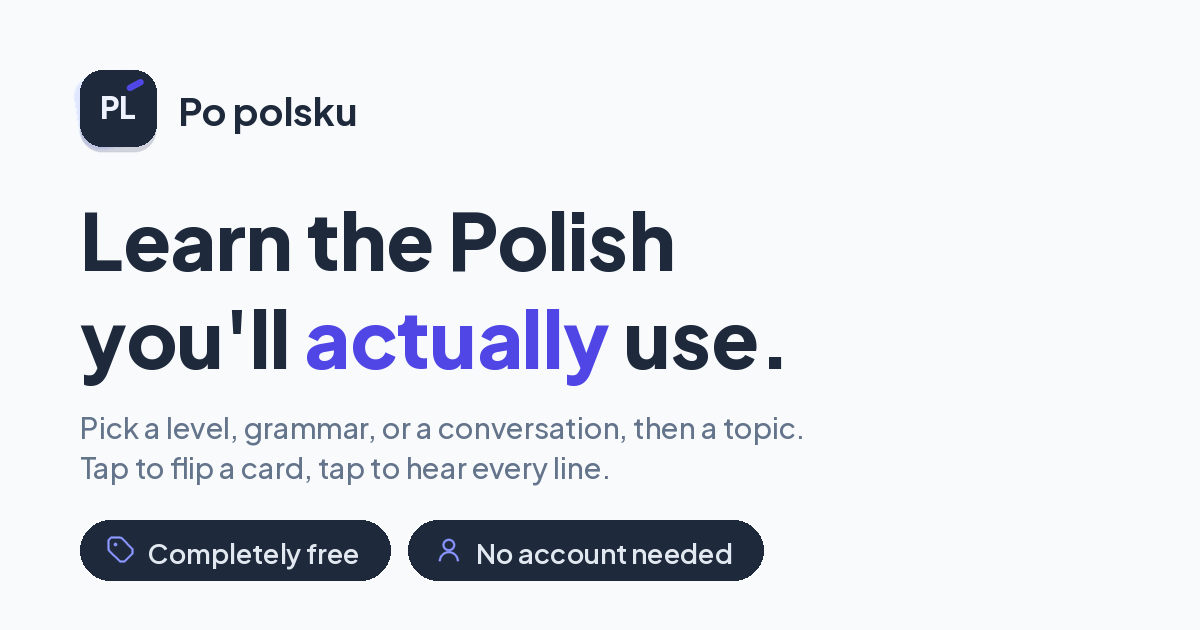
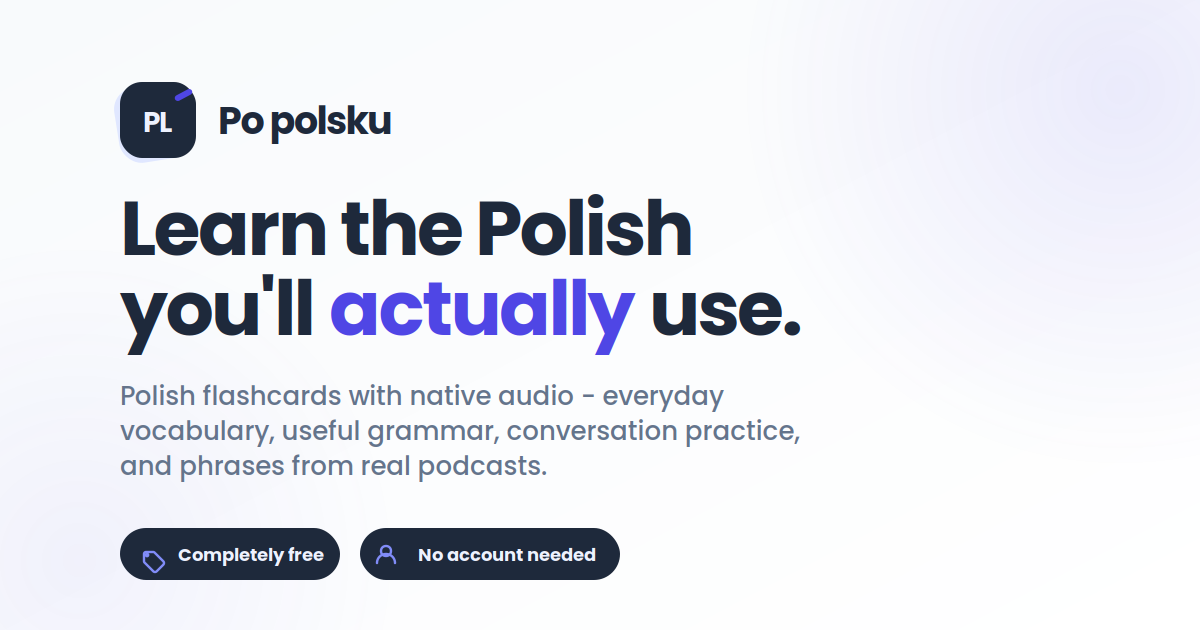
main page and visual updates

Changed region(s): [[0.0617, 0.3016, 0.6783, 0.7841], [0.0617, 0.8143, 0.6475, 0.9349], [0.0617, 0.0905, 0.3392, 0.2714]]

diff --git a/index.html b/index.html
@@ -5,34 +5,37 @@
 <meta name="viewport" content="width=device-width, initial-scale=1.0, viewport-fit=cover">
 <meta name="theme-color" content="#f8fafc">
 <title>Po polsku - learn the Polish you'll actually use</title>
-<meta name="description" content="Free Polish flashcards with audio for A1-B1: real everyday vocabulary, all seven grammar cases, and branching conversations. No account, no ads, works offline.">
+<meta name="description" content="Polish flashcards with native audio - everyday vocabulary, useful grammar, conversation practice, and phrases from real podcasts.">
 <link rel="canonical" href="https://popolsku.app/">
 <link rel="icon" type="image/svg+xml" href="favicon.svg">
 <link rel="apple-touch-icon" href="apple-touch-icon.png">
 <link rel="manifest" href="manifest.json">
 <meta name="apple-mobile-web-app-capable" content="yes">
+<meta name="mobile-web-app-capable" content="yes">
 <meta name="apple-mobile-web-app-status-bar-style" content="default">
 <meta name="apple-mobile-web-app-title" content="Po polsku">
 <meta property="og:type" content="website">
+<meta property="og:site_name" content="Po polsku">
+<meta property="og:locale" content="en_US">
 <meta property="og:url" content="https://popolsku.app/">
 <meta property="og:title" content="Po polsku - learn the Polish you'll actually use">
-<meta property="og:description" content="Free Polish flashcards with audio for A1-B1: real everyday vocabulary, all seven grammar cases, and branching conversations. No account, no ads, works offline.">
-<meta property="og:image" content="https://popolsku.app/og-image.png">
+<meta property="og:description" content="Polish flashcards with native audio - everyday vocabulary, useful grammar, conversation practice, and phrases from real podcasts.">
+<meta property="og:image" content="https://popolsku.app/og-image.png?v=2">
 <meta property="og:image:width" content="1200">
 <meta property="og:image:height" content="630">
 <meta property="og:image:type" content="image/png">
 <meta property="og:image:alt" content="Po polsku - learn the Polish you'll actually use">
 <meta name="twitter:card" content="summary_large_image">
 <meta name="twitter:title" content="Po polsku - learn the Polish you'll actually use">
-<meta name="twitter:description" content="Free Polish flashcards with audio for A1-B1. No account, no ads, works offline.">
-<meta name="twitter:image" content="https://popolsku.app/og-image.png">
+<meta name="twitter:description" content="Polish flashcards with native audio - everyday vocabulary, useful grammar, conversation practice, and phrases from real podcasts.">
+<meta name="twitter:image" content="https://popolsku.app/og-image.png?v=2">
 <meta name="twitter:image:alt" content="Po polsku - learn the Polish you'll actually use">
 
 <!-- Content Security Policy: closes off common script-injection and data-leak vectors.
      Everything the app needs is same-origin; no third-party scripts, images, or fetches are permitted.
      'unsafe-inline' remains on script-src because the app uses a large inline <script> block;
      stripping it would require a full script-externalization refactor, not covered here. -->
-<meta http-equiv="Content-Security-Policy" content="default-src 'self'; script-src 'self' 'unsafe-inline'; style-src 'self' 'unsafe-inline'; font-src 'self'; img-src 'self'; connect-src 'self'; media-src 'self'; frame-ancestors 'none'; base-uri 'self'; form-action 'self'">
+<meta http-equiv="Content-Security-Policy" content="default-src 'self'; script-src 'self' 'unsafe-inline'; style-src 'self' 'unsafe-inline'; font-src 'self'; img-src 'self'; connect-src 'self'; media-src 'self'; base-uri 'self'; form-action 'self'">
 <meta name="referrer" content="strict-origin-when-cross-origin">
 
 <style>
@@ -59,6 +62,9 @@
     --sage-hover:#3730a3;
     --coral:#c97c5d;         /* secondary warm accent - "still learning" / wrong */
     --coral-hover:#b56a4c;
+    /* correctness feedback (grammar drills): green = right, red = wrong position */
+    --ok-bg:#dcfce7;    --ok-border:#22c55e;   --ok-text:#15803d;
+    --bad-bg:#fee2e2;   --bad-border:#ef4444;  --bad-text:#b91c1c;
     --muted:#64748b;
     --border:#e6ebf1;
     --shadow:0 1px 2px rgba(30,27,75,.04), 0 12px 28px rgba(30,27,75,.06);
@@ -370,18 +376,20 @@
   .opt:hover:not(:disabled){border-color:var(--emerald);transform:translateY(-1px)}
   .opt:disabled{cursor:default}
   .opt:focus-visible{outline:2px solid var(--emerald);outline-offset:2px}
-  .opt.correct{background:var(--mint-bg);border-color:var(--emerald);color:var(--sage-hover)}
+  .opt.correct{background:var(--ok-bg);border-color:var(--ok-border);color:var(--ok-text)}
   .opt.wrong{background:#fbeee8;border-color:var(--coral);color:var(--coral-hover)}
   .build-row{min-height:56px;border:1.5px dashed #c7d3db;border-radius:14px;background:#fbfdfe;margin-top:20px;padding:10px;display:flex;flex-wrap:wrap;gap:8px;align-items:center}
   .build-row.empty::before{content:"Tap words below to build the sentence";color:#aebbc4;font-size:13px;font-weight:500;padding:4px 6px}
   .build-row.shake{animation:shake .32s}
   @keyframes shake{0%,100%{transform:translateX(0)}25%{transform:translateX(-5px)}75%{transform:translateX(5px)}}
-  .build-row.locked .wchip{background:var(--mint-bg);border-color:var(--emerald);color:var(--sage-hover);cursor:default}
+  .build-row.locked .wchip{background:var(--ok-bg);border-color:var(--ok-border);color:var(--ok-text);cursor:default}
   .build-pool{display:flex;flex-wrap:wrap;gap:8px;margin-top:16px}
   .wchip{border:1.5px solid var(--border);background:#fff;color:var(--forest);border-radius:11px;padding:9px 14px;font-size:15px;font-weight:700;cursor:pointer;transition:.13s;font-family:inherit}
   .wchip:hover{border-color:var(--emerald);transform:translateY(-1px)}
   .wchip:focus-visible{outline:2px solid var(--emerald);outline-offset:2px}
-  .wchip.in-row{background:var(--mint-bg);border-color:#bfe6d5;color:var(--sage-hover)}
+  .wchip.in-row{background:var(--mint-bg);border-color:#c7d2fe;color:var(--sage-hover)}
+  .wchip.in-row.ok{background:var(--ok-bg);border-color:var(--ok-border);color:var(--ok-text)}
+  .wchip.bad{background:var(--bad-bg);border-color:var(--bad-border);color:var(--bad-text)}
   .fb-box{margin-top:18px;display:none}
   .fb-box.show{display:block;animation:fade .3s ease}
   .fb-good{background:var(--mint-bg);border-radius:14px;padding:13px 14px;display:flex;align-items:flex-start;gap:11px}
@@ -488,7 +496,7 @@
 
     <div class="hero">
       <h1>Learn the Polish<br>you'll <em>actually</em> use.</h1>
-      <p class="hero-sub">Pick a level, grammar, or a conversation, then a topic. Tap to flip a card, tap to hear every line.</p>
+      <p class="hero-sub">Polish flashcards with native audio - everyday vocabulary, useful grammar, conversation practice, and phrases from real podcasts.</p>
       <div class="hero-badges">
         <span class="hero-badge">
           <svg viewBox="0 0 24 24" fill="none" stroke="currentColor" stroke-width="2" stroke-linecap="round" stroke-linejoin="round"><path d="M12.586 2.586A2 2 0 0 0 11.172 2H4a2 2 0 0 0-2 2v7.172a2 2 0 0 0 .586 1.414l8.704 8.704a2.426 2.426 0 0 0 3.42 0l6.58-6.58a2.426 2.426 0 0 0 0-3.42z"/><circle cx="7.5" cy="7.5" r=".5" fill="currentColor"/></svg>
@@ -507,7 +515,7 @@
     <div class="seg-label">Topics</div>
     <div class="search">
       <svg class="search-ic" viewBox="0 0 24 24" fill="none" stroke="currentColor" stroke-width="2.2" stroke-linecap="round" stroke-linejoin="round"><circle cx="11" cy="11" r="8"/><path d="m21 21-4.3-4.3"/></svg>
-      <input id="search" type="search" inputmode="search" autocomplete="off" autocorrect="off" autocapitalize="off" spellcheck="false" placeholder="Search topics - e.g. food, doctor, past tense" aria-label="Search topics across all levels">
+      <input id="search" type="search" inputmode="search" autocomplete="off" autocorrect="off" autocapitalize="off" spellcheck="false" placeholder="Search topics - e.g. food, home" aria-label="Search topics across all levels">
       <button class="search-clear" id="searchClear" type="button" aria-label="Clear search" hidden>&times;</button>
     </div>
     <div class="search-meta" id="searchMeta"></div>
@@ -747,7 +755,7 @@
 
         <div class="about-contact">
           <div class="about-contact-title">Contact</div>
-          <p class="about-p">Learned Polish yourself and have a survival tactic that worked? Found a mistake, or want a topic added? I'd genuinely love to hear it - reach out on <a class="about-link" href="https://www.linkedin.com/in/kakhaber-gordadze/" target="_blank" rel="noopener noreferrer">LinkedIn</a>.</p>
+          <p class="about-p">Learned Polish yourself and have a survival tactic that worked? Found a mistake, or want a topic added? I'd genuinely love to hear it - reach out at <a class="about-link" href="mailto:[email redacted]">[email redacted]</a>.</p>
         </div>
       </div>
     </div>
@@ -816,7 +824,12 @@ function restoreProgress(l,t){
   (rec.still||[]).forEach(pl=>{ if(idx[pl]!==undefined) S.still.add(idx[pl]); });
   (rec.known||[]).forEach(pl=>{ if(idx[pl]!==undefined) S.known.add(idx[pl]); });
 }
-function showScreen(scr){ document.querySelectorAll(".screen").forEach(s=>s.classList.remove("active")); $(scr).classList.add("active"); window.scrollTo(0,0); }
+function showScreen(scr){
+  document.querySelectorAll(".screen").forEach(s=>s.classList.remove("active"));
+  $(scr).classList.add("active");
+  const ft=document.querySelector("footer"); if(ft) ft.hidden = (scr!=="home");   /* About/Privacy + data note live on home only */
+  window.scrollTo(0,0);
+}
 /* history-aware navigation: system back button pops to home instead of closing the app */
 function show(scr){
   if($(scr).classList.contains("active")){ showScreen(scr); return; }   /* re-render same screen, no new entry */
@@ -1306,7 +1319,21 @@ function gRenderTeach(){
   if(t.note)     b+='<div class="b-note">'+t.note+'</div>';
   if(t.examples) b+=t.examples.map(gExampleHTML).join('');
   $("gBackFace").innerHTML=b;
+  requestAnimationFrame(gFitCard);
 }
+/* Grammar teach cards hold variable content (tables, lists, examples). The flip card has a
+   fixed min-height, so tall cards used to crop. Grow the card to fit its tallest face instead.
+   Only affects #gFlip; the vocabulary study card keeps its fixed sizing. */
+function gFitCard(){
+  const flip=$("gFlip"); if(!flip) return;
+  flip.style.height="";                                   /* reset to CSS baseline first */
+  let needed=0;
+  flip.querySelectorAll(".face").forEach(f=>{ needed=Math.max(needed, f.scrollHeight); });
+  if(needed>flip.offsetHeight) flip.style.height=needed+"px";
+}
+window.addEventListener("resize", ()=>{
+  if($("grammar").classList.contains("active") && $("gLearn").style.display!=="none") gFitCard();
+});
 function gStartPractice(){ G.di=0; G.results=[]; gRenderDrill(); gPhaseView("practice"); }
 function gRenderDrill(){
   const c=G.topic.drills[G.di], last=G.di===G.topic.drills.length-1;
@@ -1347,6 +1374,7 @@ function gChooseFeedback(c){
 function gRenderBuild(c){
   G.build.pool=gShuffle(c.answer).map((w,i)=>({w:w,id:i+"-"+w}));
   G.build.row=[];
+  G.build.answer=c.answer;
   $("gDrillCard").innerHTML='<div class="d-type">Build the sentence</div><div class="q-prompt">'+c.promptEn+'</div>'+
     '<div class="q-en">Tap the words in the right order</div>'+
     '<div class="build-row" id="gBuildRow"></div><div class="build-pool" id="gBuildPool"></div>'+
@@ -1357,7 +1385,11 @@ function gRenderBuild(c){
 function gPaintBuild(){
   const row=$("gBuildRow"), pool=$("gBuildPool");
   row.className="build-row"+(G.build.row.length===0?" empty":"");
-  row.innerHTML=G.build.row.map(t=>'<button class="wchip in-row" data-id="'+t.id+'">'+t.w+'</button>').join('');
+  /* hybrid feedback: a word in its correct position greens live; red is only shown on Check */
+  row.innerHTML=G.build.row.map((t,i)=>{
+    const ok = G.build.answer && t.w===G.build.answer[i];
+    return '<button class="wchip in-row'+(ok?" ok":"")+'" data-id="'+t.id+'">'+t.w+'</button>';
+  }).join('');
   pool.innerHTML=G.build.pool.map(t=>'<button class="wchip" data-id="'+t.id+'">'+t.w+'</button>').join('');
   row.querySelectorAll(".wchip").forEach(ch=>ch.addEventListener("click",()=>{
     const id=ch.getAttribute("data-id"); const t=G.build.row.find(x=>x.id===id);
@@ -1382,7 +1414,11 @@ function gCheckBuild(c){
     fb.classList.add("show"); $("gDrillNext").disabled=false;
   } else {
     G.attempted=true; G.results[G.di]=false;
-    const r=$("gBuildRow"); r.classList.add("shake"); setTimeout(()=>r.classList.remove("shake"),340);
+    /* red-flag the words sitting in the wrong slot; correct ones keep their green.
+       These clear automatically on the next tap, since gPaintBuild re-renders the row. */
+    const r=$("gBuildRow");
+    r.querySelectorAll(".wchip").forEach((ch,i)=>{ if(G.build.row[i].w!==c.answer[i]) ch.classList.add("bad"); });
+    r.classList.add("shake"); setTimeout(()=>r.classList.remove("shake"),340);
   }
 }
 function gDrillAdvance(){ if(G.di<G.topic.drills.length-1){ G.di++; gRenderDrill(); } else gShowDone(); }